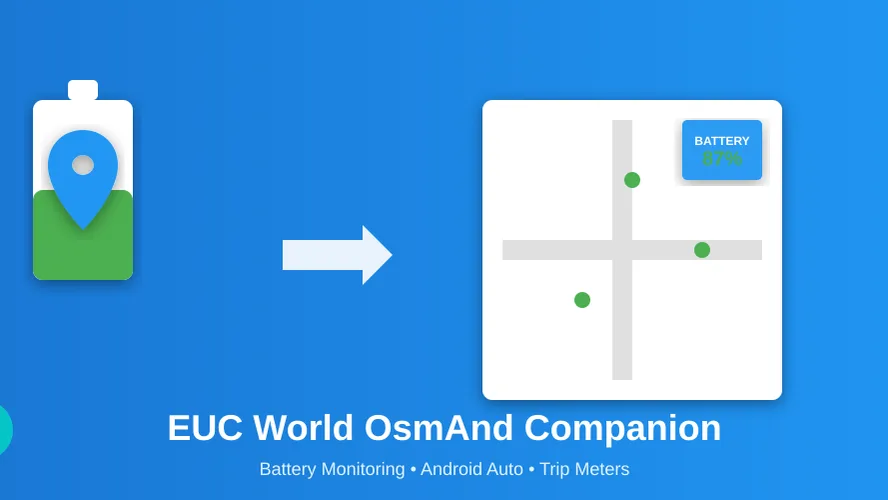
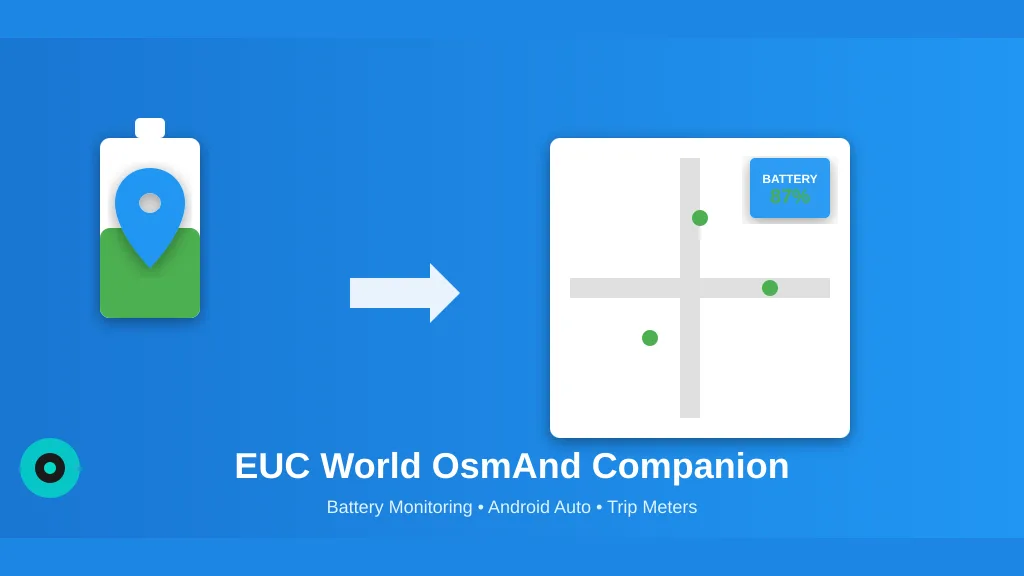
fix: pad band images to 16:9 instead of cropping

diff --git a/a42r_site/images.py b/a42r_site/images.py
@@ -23,26 +23,39 @@ def _flatten(im: Image.Image, bg: str = "#ffffff") -> Image.Image:
     """Convert to RGB, compositing any transparency onto bg."""
     if im.mode in ("RGBA", "LA") or (im.mode == "P" and "transparency" in im.info):
         rgba = im.convert("RGBA")
-        bg = Image.new("RGB", rgba.size, bg)
-        bg.paste(rgba, mask=rgba.getchannel("A"))
-        return bg
+        flat = Image.new("RGB", rgba.size, bg)
+        flat.paste(rgba, mask=rgba.getchannel("A"))
+        return flat
     return im.convert("RGB")
 
 
+def _edge_mean(im: Image.Image, boxes: list[tuple[int, int, int, int]]) -> tuple[int, ...]:
+    """Mean RGB over the given edge strips of im."""
+    means = [im.crop(box).resize((1, 1), Image.BOX).getpixel((0, 0)) for box in boxes]
+    return tuple(round(sum(m[i] for m in means) / len(means)) for i in range(3))
+
+
 def _to_16x9(im: Image.Image, bg: str) -> Image.Image:
-    """Normalise to 16:9: centre-crop landscape, letterbox portrait on bg."""
+    """Normalise to 16:9 without cropping: fit inside and pad.
+
+    Landscape sources are padded with the mean colour of their own edge
+    pixels on the padded sides; portrait sources are padded with bg.
+    """
     w, h = im.size
+    if w * 9 == h * 16:
+        return im
     if w / h >= 1.2:
-        if w * 9 > h * 16:  # wider than 16:9: crop width
-            cw = round(h * 16 / 9)
-            left = (w - cw) // 2
-            return im.crop((left, 0, left + cw, h))
-        ch = round(w * 9 / 16)  # between 1.2 and 16:9: crop height
-        top = (h - ch) // 2
-        return im.crop((0, top, w, top + ch))
-    cw = round(h * 16 / 9)
-    canvas = Image.new("RGB", (cw, h), bg)
-    canvas.paste(im, ((cw - w) // 2, 0))
+        if w * 9 > h * 16:  # wider than 16:9: pad top and bottom
+            size = (w, round(w * 9 / 16))
+            fill = _edge_mean(im, [(0, 0, w, 1), (0, h - 1, w, h)])
+        else:  # narrower than 16:9: pad left and right
+            size = (round(h * 16 / 9), h)
+            fill = _edge_mean(im, [(0, 0, 1, h), (w - 1, 0, w, h)])
+    else:
+        size = (round(h * 16 / 9), h)
+        fill = bg
+    canvas = Image.new("RGB", size, fill)
+    canvas.paste(im, ((size[0] - w) // 2, (size[1] - h) // 2))
     return canvas
 
 

diff --git a/tests/test_images.py b/tests/test_images.py
@@ -27,6 +27,28 @@ def test_import_never_upscales(tmp_path):
     assert Image.open(tmp_path / "out/x-640.webp").size == (640, 360)
 
 
+def test_wide_source_not_cropped(tmp_path):
+    src = tmp_path / "s.png"
+    im = Image.new("RGB", (2000, 900), "white")
+    for x in list(range(10)) + list(range(1990, 2000)):
+        for y in range(900):
+            im.putpixel((x, y), (255, 0, 0))
+    im.save(src)
+    import_image(src, tmp_path / "out", "x")
+    out = Image.open(tmp_path / "out/x-640.jpg")
+    for x in (0, 639):
+        r, g, b = out.getpixel((x, 180))
+        assert r > 200 and g < 80 and b < 80
+
+
+def test_wide_pad_matches_edge_colour(tmp_path):
+    src = tmp_path / "s.png"
+    Image.new("RGB", (2000, 900), "#123456").save(src)
+    import_image(src, tmp_path / "out", "x")
+    px = Image.open(tmp_path / "out/x-640.jpg").getpixel((0, 0))
+    assert all(abs(a - b) <= 3 for a, b in zip(px, (0x12, 0x34, 0x56)))
+
+
 def test_portrait_letterboxed_on_tint(tmp_path):
     src = tmp_path / "s.png"
     Image.new("RGB", (1080, 2400), "black").save(src)
